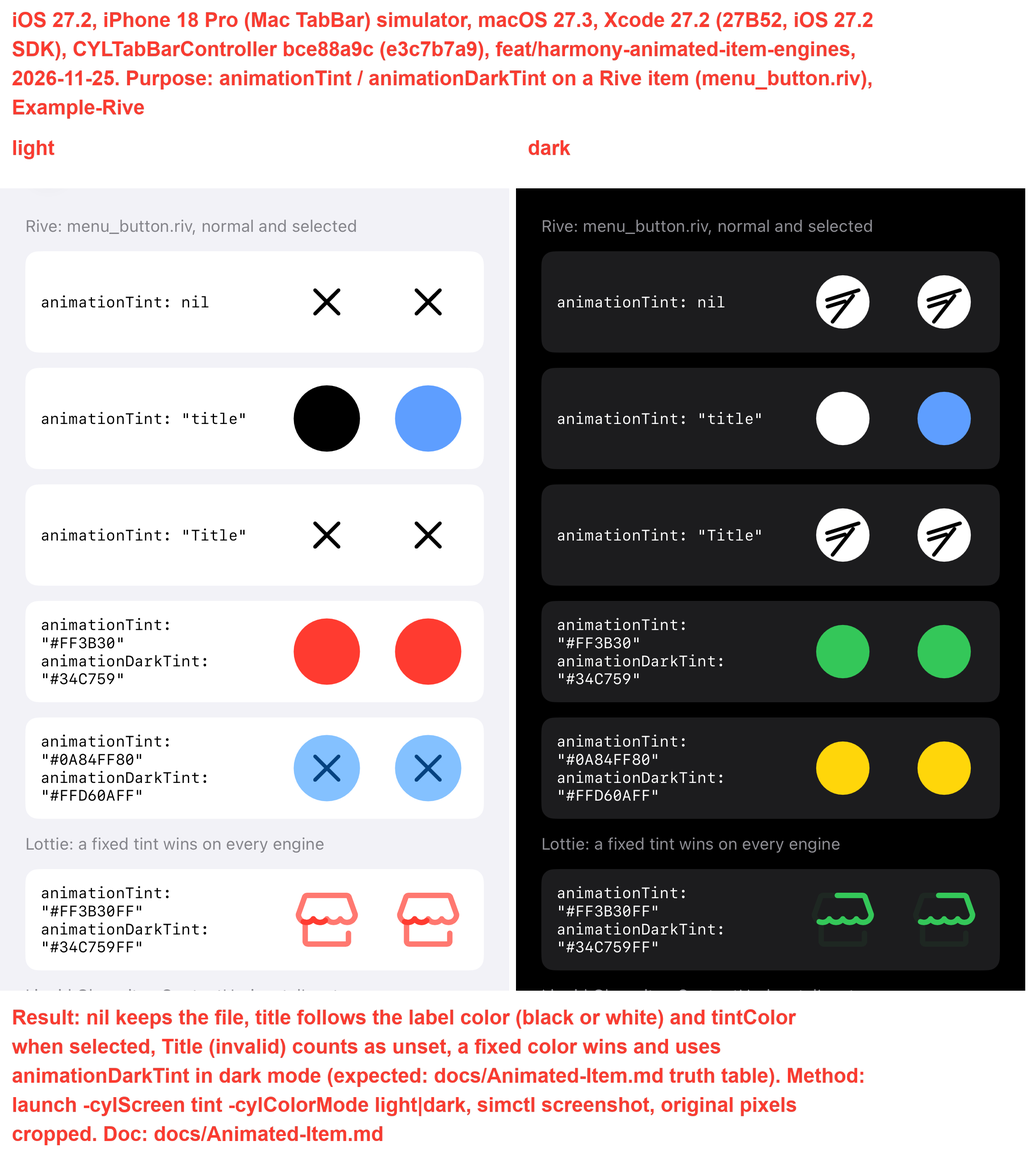
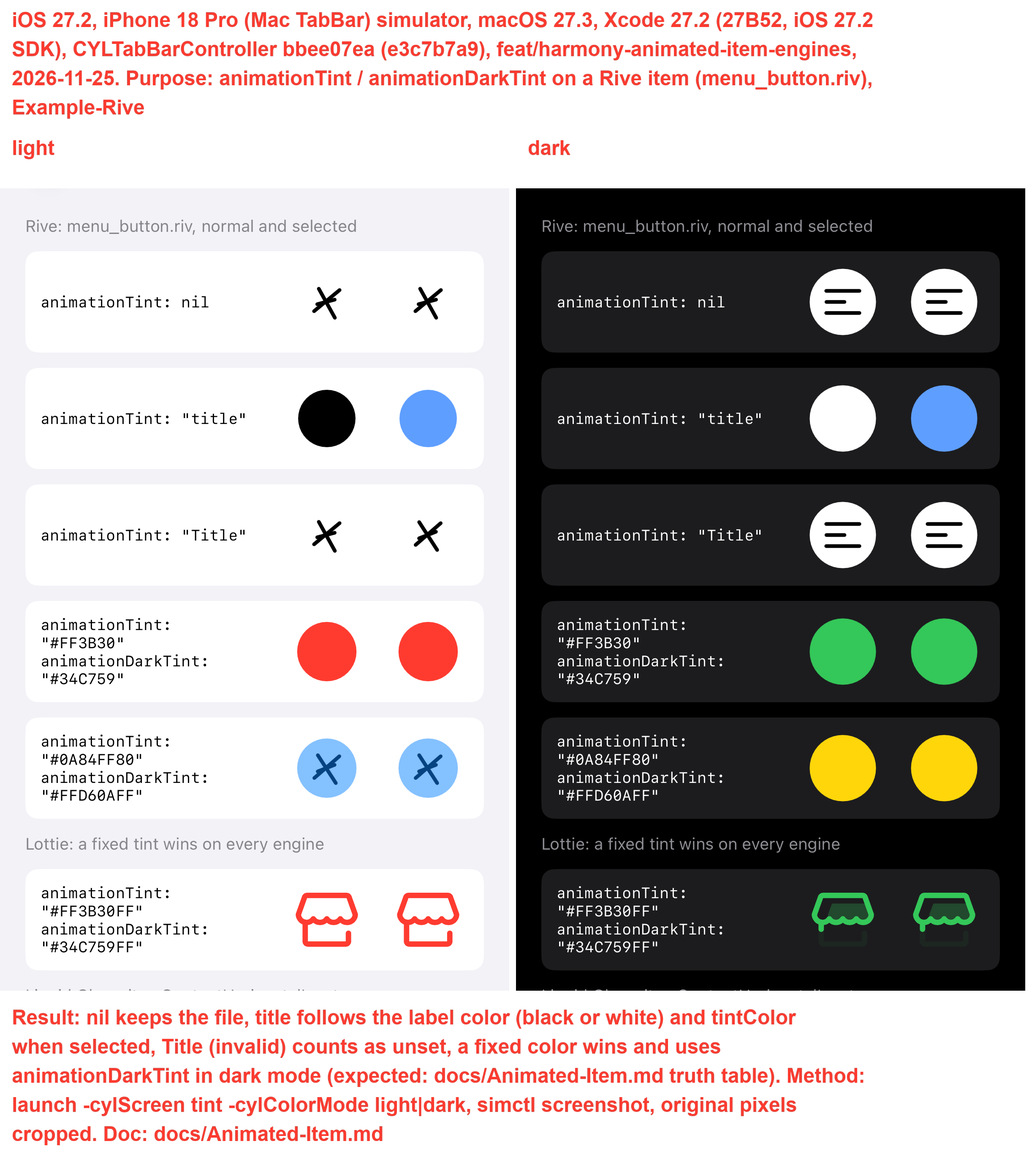
docs: 📝 iOS examples: screenshots and tests repeated on the merged head
Builds (Example, Example-Swift, Example-Rive) 0 errors, 326 framework tests
with 0 failures, labeled screenshots retaken on bbee07ea after merging origin.

By  @ChenYilong <luohanchenyilong@163.com>

diff --git a/docs/Animated-Item.md b/docs/Animated-Item.md
@@ -54,7 +54,7 @@
 |:---|:---|
 | 用户原话：“静态编写代码，代码编写完成统一测试”。本条按用户要求使用英文（见右列）。 | IN PROGRESS, 0 / 100 so far (2026-11-25, branch `feat/harmony-animated-item-engines`, PR #824, Mac session, worktree `/tmp/xpr/harmony-eng/repo`): **tab bar resource-missing on iOS, Rive off-window bound, plus-button title in dark mode, iOS halves of three older rows.** Owner directive, verbatim (Chinese, translated here): "write the code statically; when all code is written, test it in one batch" (`静态编写代码，代码编写完成统一测试`): all code is written first, then ONE combined test batch, no per-step test cycles, one push after the batch. Task from the coordinator, no user prompt of its own. Tasks: (A) iOS tab bar buttons (UIKit, notification based) report `onResourceMissing` like Android `CYLTabBar.kt` (`cyl_animationViewDidFail` -> `CYLTabBarItemAnimationFailure.missingResource`): `CYLAnimationEngines.resourceMissingListener` once per resource per tab button, main thread, reasons "not found" / "unreadable" / "decode failed" / "engine library missing", for a late failure and for a synchronous nil from the factory; XCTest. (B) Rive timed input: `CYLRiveInputPass.offWindowEnds` waits the full 1.5 s cap for an input with `activeDuration` > 0; a pure-function test proves it, then the off-window is bounded by `activeDuration` (min 0.05 s, never above 1.5 s) on iOS, mirrored statically in Android `CYLRiveInputPass.kt` and HarmonyOS `CYLAnimatedItemRiveOptions.ts` with their unit tests updated (Windows runs them). (C) the plus button title shows a fixed gray instead of following the tab titles in dark mode (CYLSearch example, 'Search bar' plus title rgb(146,146,146) vs white): reproduce in Example-Swift on Liquid Glass, fix `cylAlignTitleWithTabBarItemTitlesIfNeeded` / the configuration update handler if it does not follow; the `.gray` default stays (owner decision, listed under TODO). (D) the iOS halves of the task log rows `itemContentHorizontalInset`, `showsImageWhenAnimationEnds` parity and the iOS engine contract: check what is missing, implement if small, else list. Advisor plan (checked before writing code): the engine looks `CYLAnimatedItemView` up at run time so the Foundation-only `Tests/CYLTabBarItemAnimation` target stays free of the view module, so the engine reaches the reporter the same way (an `@objc` entry point on `CYLAnimationEngines`, reached by runtime lookup if a direct reference breaks that target or SwiftPM); two failure points (the late failure, and the synchronous nil of the factory: missing or empty local file, no animator for the URL, else decode failed); dedupe per tab button plus resource, not per animation view, because trait and style refreshes make a new view for the same file; no new public per-tab callback (owner question below); B bound = `activeDuration > 0 ? min(1.5, max(0.05, activeDuration)) : 1.5` with one case table on every platform; C checks in order: does alignment run for a titled plus button, the `cylShowsTitleInTabBarItem()` early return, the `configurationUpdateHandler` that rebuilds the title transformer from `titleColor(for: .normal)` and overrides the aligned color; log the real color source (146 is not `.gray`, which is about 128); D is expected to need little or no code. Rubric: **100** = A, B, C implemented, tests written and run in one batch (Framework scheme on `iPhone 18 Pro (Mac TabBar)` 5084F21B by UDID, Example and Example-Swift built from empty derived data), D checked, rows and TODO table returned. **60** = A and B with tests passing. Owner question: should an iOS tab have a per-tab `onResourceMissing` callback (Android's tab is a `CYLAnimatedItemView`, an iOS UIKit tab button is not one)? Until answered only the global listener fires on the tab bar path. **Result (2026-11-25, same session, macOS 27.3, Xcode 27.2, simulator `iPhone 18 Pro (Mac TabBar)` 5084F21B by UDID, derived data emptied):** 90 / 100. (A) DONE: the tab engine reports a tab's missing file through `CYLAnimationEngines` (internal `@objc` entry points found at run time, so `Tests/CYLTabBarItemAnimation` stays Foundation-only), once per resource per tab button; `CYLTabBarResourceMissingTests` 5 tests. (B) DONE: the bug is proven by `testAMachineThatNeverSettlesDoesNotWaitTheFullCapForAShortInput` (without the duration a 0.3 s input waits 1.5 s); `CYLRiveInputPass.offWindowCap(activeDuration:)` = `activeDuration > 0 ? min(1.5, max(0.05, activeDuration)) : 1.5`; iOS 6 new tests passed; Android `offWindowCapMilliseconds` and HarmonyOS `cylRiveOffWindowCapMs` written with the same case table, NOT run (Windows); Android has no settle wait, so only the rule is mirrored. (C) DONE: root cause = the `configurationUpdateHandler` of a plus button made from a configuration rebuilt the title transformer from `titleColor(for:)` (the default gray) after every configuration change, undoing the colors `cylApplyTitleFont` took from the tab titles; the handler now prefers the stored `titleStyle`. `CYLPlusButtonTitleColorTests` 2 tests (fail without the change: 2 failures, pass with it); Example-Swift in dark mode with Liquid Glass shows the plus title `Post` white like the other titles. The `.gray` default stays (owner decision). Full Framework scheme, first run: 326 tests, 3 skipped, 2 failures, both in the C test as first written (it called `updateConfiguration()`, which does not run the handler); the corrected C class was then run alone: 2 tests, 0 failures (the full scheme was not run again). Example (ObjC) and Example-Swift build from empty derived data. TODO (-10): Example-Rive not built here (the changed `CYLRiveLegacyTabBarItemAnimationView.swift` call site is compiled only with RiveRuntime); Android and HarmonyOS B halves not run; no committed labeled screenshot of the dark plus title; `Tests/CYLTabBarItemAnimation/run.sh` already failed to link before this change (missing `CYLTabBarItemAnimationPrepareTint` and more), so the new checks in its `main.m` are compiled but not run; no per-tab `onResourceMissing` on iOS (owner question above). |
 | 本条按用户要求使用英文（见右列）。 | IN PROGRESS, 70 / 100 (2026-11-25, branch `feat/harmony-animated-item-engines`, PR #824, Windows session winsCYLTabBarController): **Windows batch after the advisor's score review (about 82-85 overall: the mini program row 71 and the red Android tests were the biggest drags) and the Mac session's batch.** User prompt, verbatim: "continue TODO (missing points): opus ... 将得分优化到100转发合适任务给其他session 直接使用本机环境进行测试，iOS在macos机器，其余在windows机器。转发任务给相应session无需等待ci结果。" **Done and verified here:** (1) Android: `CYLAnimatedItemStackTintTest` hiddenOwnerOrNextItemLeavesNoDividerOrSpacing and goneItemLeavesNoSpacing were red at HEAD: `CYLAnimatedItemStackView.onMeasure` applied the spacing with `marginStart` only (relayout false), which reaches `leftMargin` only when the layout direction is resolved, so a hidden or gone first item left its space in the width; fixed by resolving the margin in place; clean run of `:cylanimateditem` and `:cyltabbar` unit tests 345 tests, 1 skipped, 0 failed, `:app:assembleDebug` builds (JDK 17); also `CYLAnimatedItemTintV2Test` did not compile (the `night` helper took a CYLAnimatedItemView, the test passes a stack): widened to View, 19 tests pass; (2) HarmonyOS did not build at 3c6a4d2b (`CYLAnimatedItemColorCount.ts`, 15 ArkTS errors, `object` vs `Object`): fixed, 140 node tests pass; (3) the `#tint=` tab URL options on HarmonyOS: Gallery scene `lottie-tint` (`Lottie tint URLs`), tabs `#tint=title`, `#tint=#FF3B3080&darkTint=#34C75980`, none, `#tint=#007AFFFF`: on the emulator the `title` tab takes the selected title color, the fixed tab is pale red in light mode and pale green in dark mode, the fixed blue is visible, so the tab path reads 8 digits as #RRGGBBAA (as #AARRGGBB the colors would be dark purple and transparent); `cylTintColorFilter` (`cyltabbar/.../CYLTabBarController.ets:2147`) still reads 8-digit strings as #AARRGGBB, `cylTintForPath` no longer exists, and the owner decision is still open ([screenshot](assets/harmonyos-gallery-lottie-tint-urls-a93de1d8.png)); (4) the built-in default tint in dark mode on HarmonyOS (page `Default tint`, launch parameter `cylColorMode`): a one-color Lottie is black / near white when normal and blue when selected, a multi-color one keeps its colors ([screenshot](assets/examples-dark-mode-default-tint-09bb7bec.png)); (5) the mini program example controls in WeChat DevTools (the part row 72 lists as not verified): on the Me page speed 2 and loop on reach all four tab icon players through `cyl_player()` (`speed` 2, `loops` true, `supportsSpeed` / `supportsLoops` true), Play all makes all four report playing, loop off plus Restart plays the selected icon; `npm test` 220 / 220 and the DevTools UI suite 15 passed, 3 skipped, 0 failed. **Not done / not verified:** a single pass with loop off never reports its end in the DevTools simulator (the selected Me icon still reports playing after 10 s; simulator limit or a missing `complete`, needs a real device); the GIF-as-image end event in DevTools (the example is built for `lottie`; the `gif` variant was not run); Rive Loop OFF with menu_button.riv and the SRC_IN tint layer over Rive and PAG on the x86_64 emulator (the HAP installs with the Rive debug engine, but the HarmonyOS entry has neither menu_button.riv nor a PAG file nor a page for them); `ohosTest`; the inset screenshots (itemContentHorizontalInset, glass, normal and selected) on Android, HarmonyOS and the mini program; the Rive timed-input mirror (waiting for the Mac core push); Android and the mini program default tint on a device (the examples have no page with a one-color animated item). Forwarded: the iOS halves and the iOS example conversions to the Mac session, the library dark-mode bugs (fixed white list background, dark fold chevron) to the ClassifyMenu session. |
-| 用户原话：“静态编写代码，代码编写完成统一测试”。本条按用户要求使用英文（见右列）。 | DONE, 85 / 100 (2026-11-25, branch `feat/harmony-animated-item-engines`, PR #824, Mac session, local branch `ios-examples-824`, worktree `/tmp/xpr/cyl-ios-ex`): **iOS examples: tint page, Default tint row, tag-list rule.** Owner directive, verbatim (Chinese, translated here): "write the code statically; when all code is written, test it in one batch" (`静态编写代码，代码编写完成统一测试`): all code first, then ONE combined test batch, no per-step test cycles, one push after the batch. Task from the coordinator, no user prompt of its own. Tasks (examples have the lowest weight: fix examples, never bend the core): (A) an iOS example page that sets `CYLAnimatedItemView.animationTint` / `animationDarkTint` (`#RRGGBBAA`, `title` case-sensitive), with a Rive item (`menu_button.riv`), normal and selected, Dark and Light. (B) the HarmonyOS `pages/DefaultTint.ets` row "Default tint" (one-color and multi-color Lottie, normal and selected, launch parameter `cylColorMode`) on iOS in the Objective-C example `Example/`, one to one. (C) the rule "Demo lists that need sections use a ClassifyMenu tag list" (`docs/instructions/examples.md`) on iOS `Example/` and `Example-Swift/`: convert what the repository's own tag list component allows, list the exact blocker otherwise. (D) ONE test batch after the code (own DerivedData, simulator `iPhone 18 Pro (Mac TabBar)` 5084F21B by UDID): build Example, Example-Swift, Example-Rive; Framework tests; labeled original-pixel screenshots in `docs/assets/`; `pod lib lint CYLTabBarController` with its own DerivedData. Rubric: **100** = A, B, C done (or C's blocker listed with evidence), all builds green, tests green, screenshots committed and label-checked, lint result reported; **60** = A and B written, builds green. Missing points are printed as TODO at the end. **Result (one test batch, 2026-11-25, own derived data, simulator `iPhone 18 Pro (Mac TabBar)` 5084F21B, iOS 27.2, Xcode 27.2, commit bce88a9c):** (A) DONE: Example-Rive `AnimatedItemTintViewController` (the User tab's next tab in turn, the second tab, "Tint" button; launch `-cylScreen tint`, `-cylColorMode dark|light`, `-cylScroll bottom`): `animationTint` nil / `title` / `Title` (invalid) / `#RRGGBB` + dark / `#RRGGBBAA` + dark on a Rive item (menu_button.riv) normal and selected, a Lottie item, and the Liquid Glass `itemContentHorizontalInset` (unset 14 pt and 0), normal and selected. **Bug found and fixed in the core**: the legacy Rive view (a .riv without a view model, such as menu_button.riv) did not implement `cyl_applyAnimationViewResolvedTintColor:`, so the properties had no effect on it (first screenshot: all rows white circles); `CYLRiveLegacyTabBarItemAnimationView` now takes the final color. Observation: a tint flattens this two-tone icon to a silhouette (the template rule: the whole icon takes the color). (B) DONE: `Example/` second tab (Nearby), section "Default tint" -> `CYLDefaultTintViewController` one to one with `pages/DefaultTint.ets` (same files, referenced from the HarmonyOS example's `rawfile/lottie`, not copied; launch `-CYLDemoSelectedTab city -cylScreen default-tint -cylColorMode dark|light`); camera black / white normal, tintColor blue selected, multi-color file keeps its colors. No Example-Swift twin: the row is not on the first tab. (C) TODO, blocker below. (D) builds: Example, Example-Swift, Example-Rive 0 errors; `scripts/unit-tests.sh`: 314 tests, 3 skipped, 0 failures (run twice, before and after the core fix); screenshots below; `pod lib lint` result in the TODO table. |
+| 用户原话：“静态编写代码，代码编写完成统一测试”。本条按用户要求使用英文（见右列）。 | DONE, 85 / 100 (2026-11-25, branch `feat/harmony-animated-item-engines`, PR #824, Mac session, local branch `ios-examples-824`, worktree `/tmp/xpr/cyl-ios-ex`): **iOS examples: tint page, Default tint row, tag-list rule.** Owner directive, verbatim (Chinese, translated here): "write the code statically; when all code is written, test it in one batch" (`静态编写代码，代码编写完成统一测试`): all code first, then ONE combined test batch, no per-step test cycles, one push after the batch. Task from the coordinator, no user prompt of its own. Tasks (examples have the lowest weight: fix examples, never bend the core): (A) an iOS example page that sets `CYLAnimatedItemView.animationTint` / `animationDarkTint` (`#RRGGBBAA`, `title` case-sensitive), with a Rive item (`menu_button.riv`), normal and selected, Dark and Light. (B) the HarmonyOS `pages/DefaultTint.ets` row "Default tint" (one-color and multi-color Lottie, normal and selected, launch parameter `cylColorMode`) on iOS in the Objective-C example `Example/`, one to one. (C) the rule "Demo lists that need sections use a ClassifyMenu tag list" (`docs/instructions/examples.md`) on iOS `Example/` and `Example-Swift/`: convert what the repository's own tag list component allows, list the exact blocker otherwise. (D) ONE test batch after the code (own DerivedData, simulator `iPhone 18 Pro (Mac TabBar)` 5084F21B by UDID): build Example, Example-Swift, Example-Rive; Framework tests; labeled original-pixel screenshots in `docs/assets/`; `pod lib lint CYLTabBarController` with its own DerivedData. Rubric: **100** = A, B, C done (or C's blocker listed with evidence), all builds green, tests green, screenshots committed and label-checked, lint result reported; **60** = A and B written, builds green. Missing points are printed as TODO at the end. **Result (one test batch, 2026-11-25, own derived data, simulator `iPhone 18 Pro (Mac TabBar)` 5084F21B, iOS 27.2, Xcode 27.2, commit bbee07ea):** (A) DONE: Example-Rive `AnimatedItemTintViewController` (the User tab's next tab in turn, the second tab, "Tint" button; launch `-cylScreen tint`, `-cylColorMode dark|light`, `-cylScroll bottom`): `animationTint` nil / `title` / `Title` (invalid) / `#RRGGBB` + dark / `#RRGGBBAA` + dark on a Rive item (menu_button.riv) normal and selected, a Lottie item, and the Liquid Glass `itemContentHorizontalInset` (unset 14 pt and 0), normal and selected. **Bug found and fixed in the core**: the legacy Rive view (a .riv without a view model, such as menu_button.riv) did not implement `cyl_applyAnimationViewResolvedTintColor:`, so the properties had no effect on it (first screenshot: all rows white circles); `CYLRiveLegacyTabBarItemAnimationView` now takes the final color. Observation: a tint flattens this two-tone icon to a silhouette (the template rule: the whole icon takes the color). (B) DONE: `Example/` second tab (Nearby), section "Default tint" -> `CYLDefaultTintViewController` one to one with `pages/DefaultTint.ets` (same files, referenced from the HarmonyOS example's `rawfile/lottie`, not copied; launch `-CYLDemoSelectedTab city -cylScreen default-tint -cylColorMode dark|light`); camera black / white normal, tintColor blue selected, multi-color file keeps its colors. No Example-Swift twin: the row is not on the first tab. (C) TODO, blocker below. (D) builds: Example, Example-Swift, Example-Rive 0 errors; `scripts/unit-tests.sh`: 326 tests, 3 skipped, 0 failures on the merged head bbee07ea (314 before merging origin; run again after the core fix); the builds and screenshots were repeated on the merged head; screenshots below; `pod lib lint` result in the TODO table. |
 | 用户原话：“静态编写代码，代码编写完成统一测试”。本条按用户要求使用英文（见右列）。 | IN PROGRESS, 0 / 100 so far (2026-11-25, branch `feat/harmony-animated-item-engines`, PR #824, Mac session, worktree `/tmp/xpr/harmony-eng/repo`): **tab bar resource-missing on iOS, Rive off-window bound, plus-button title in dark mode, iOS halves of three older rows.** Owner directive, verbatim (Chinese, translated here): "write the code statically; when all code is written, test it in one batch" (`静态编写代码，代码编写完成统一测试`): all code is written first, then ONE combined test batch, no per-step test cycles, one push after the batch. Task from the coordinator, no user prompt of its own. Tasks: (A) iOS tab bar buttons (UIKit, notification based) report `onResourceMissing` like Android `CYLTabBar.kt` (`cyl_animationViewDidFail` -> `CYLTabBarItemAnimationFailure.missingResource`): `CYLAnimationEngines.resourceMissingListener` once per resource per tab button, main thread, reasons "not found" / "unreadable" / "decode failed" / "engine library missing", for a late failure and for a synchronous nil from the factory; XCTest. (B) Rive timed input: `CYLRiveInputPass.offWindowEnds` waits the full 1.5 s cap for an input with `activeDuration` > 0; a pure-function test proves it, then the off-window is bounded by `activeDuration` (min 0.05 s, never above 1.5 s) on iOS, mirrored statically in Android `CYLRiveInputPass.kt` and HarmonyOS `CYLAnimatedItemRiveOptions.ts` with their unit tests updated (Windows runs them). (C) the plus button title shows a fixed gray instead of following the tab titles in dark mode (CYLSearch example, 'Search bar' plus title rgb(146,146,146) vs white): reproduce in Example-Swift on Liquid Glass, fix `cylAlignTitleWithTabBarItemTitlesIfNeeded` / the configuration update handler if it does not follow; the `.gray` default stays (owner decision, listed under TODO). (D) the iOS halves of the task log rows `itemContentHorizontalInset`, `showsImageWhenAnimationEnds` parity and the iOS engine contract: check what is missing, implement if small, else list. Advisor plan (checked before writing code): the engine looks `CYLAnimatedItemView` up at run time so the Foundation-only `Tests/CYLTabBarItemAnimation` target stays free of the view module, so the engine reaches the reporter the same way (an `@objc` entry point on `CYLAnimationEngines`, reached by runtime lookup if a direct reference breaks that target or SwiftPM); two failure points (the late failure, and the synchronous nil of the factory: missing or empty local file, no animator for the URL, else decode failed); dedupe per tab button plus resource, not per animation view, because trait and style refreshes make a new view for the same file; no new public per-tab callback (owner question below); B bound = `activeDuration > 0 ? min(1.5, max(0.05, activeDuration)) : 1.5` with one case table on every platform; C checks in order: does alignment run for a titled plus button, the `cylShowsTitleInTabBarItem()` early return, the `configurationUpdateHandler` that rebuilds the title transformer from `titleColor(for: .normal)` and overrides the aligned color; log the real color source (146 is not `.gray`, which is about 128); D is expected to need little or no code. Rubric: **100** = A, B, C implemented, tests written and run in one batch (Framework scheme on `iPhone 18 Pro (Mac TabBar)` 5084F21B by UDID, Example and Example-Swift built from empty derived data), D checked, rows and TODO table returned. **60** = A and B with tests passing. Owner question: should an iOS tab have a per-tab `onResourceMissing` callback (Android's tab is a `CYLAnimatedItemView`, an iOS UIKit tab button is not one)? Until answered only the global listener fires on the tab bar path. |
 | 用户原话：“静态编写代码，代码编写完成统一测试”。本条按用户要求使用英文（见右列）。 | IN PROGRESS, 0 / 100 so far (2026-11-25, branch `feat/harmony-animated-item-engines`, PR #824, Mac session, local branch `ios-examples-824`, worktree `/tmp/xpr/cyl-ios-ex`): **iOS examples: tint page, Default tint row, tag-list rule.** Owner directive, verbatim (Chinese, translated here): "write the code statically; when all code is written, test it in one batch" (`静态编写代码，代码编写完成统一测试`): all code first, then ONE combined test batch, no per-step test cycles, one push after the batch. Task from the coordinator, no user prompt of its own. Tasks (examples have the lowest weight: fix examples, never bend the core): (A) an iOS example page that sets `CYLAnimatedItemView.animationTint` / `animationDarkTint` (`#RRGGBBAA`, `title` case-sensitive), with a Rive item (`menu_button.riv`), normal and selected, Dark and Light. (B) the HarmonyOS `pages/DefaultTint.ets` row "Default tint" (one-color and multi-color Lottie, normal and selected, launch parameter `cylColorMode`) on iOS in the Objective-C example `Example/`, one to one. (C) the rule "Demo lists that need sections use a ClassifyMenu tag list" (`docs/instructions/examples.md`) on iOS `Example/` and `Example-Swift/`: convert what the repository's own tag list component allows, list the exact blocker otherwise. (D) ONE test batch after the code (own DerivedData, simulator `iPhone 18 Pro (Mac TabBar)` 5084F21B by UDID): build Example, Example-Swift, Example-Rive; Framework tests; labeled original-pixel screenshots in `docs/assets/`; `pod lib lint CYLTabBarController` with its own DerivedData. Rubric: **100** = A, B, C done (or C's blocker listed with evidence), all builds green, tests green, screenshots committed and label-checked, lint result reported; **60** = A and B written, builds green. Missing points are printed as TODO at the end. |
 | 用户原话："本修改适用于cylanimateditem所有平台 包括但不限于iOS android 鸿蒙 小程序 rn flutter等等"（此前：液态tag title与边框的左右间距太小，圆角unset时为胶囊，间距也应按液态/扁平区分，用宏定义不要14 dp魔法数字，example不设置、用默认unset）。本条按英文记录（见右列）。 | DONE static, 80 / 100 (2026-11-25, branch `feat/harmony-animated-item-engines`, PR #824, Windows session): **unset horizontal content inset, the partner of `itemCornerRadius`.** Cause: a capsule (the unset radius of Liquid Glass) takes room from the content, but the title-to-border space was a fixed appearance margin (0 in a grid style), so glass titles touched the round ends. Design (advisor-reviewed): constant `CYLAnimatedItemLiquidGlassContentInset` = 14 (Android `const val`, HarmonyOS `export const`, mini program `cylAnimatedItemLiquidGlassContentInset`, Dart / TypeScript the same name; never the literal at a call site) and the property `itemContentHorizontalInset` on `CYLAnimatedItemView` and `CYLAnimatedItemStackView` (null / -1 = unset): unset = the constant on glass that is really drawn (the unset radius's condition), 0 on flat (flat views look as before); an explicit number wins, also 0 on glass; `resolvedItemContentHorizontalInset` is the value in use. Left and right only, on top of the padding (the stack: on top of `contentMargin`, top and bottom unchanged). Android: `CYLAnimatedItemView` / `CYLAnimatedItemStackView` / `CYLAnimatedItemBackgroundRenderer.resolvedContentInset`, `CYLAnimatedItemContentInsetTest` (5 cases); ClassifyMenu `CYLTagButton` uses `max(appearance inset, resolved inset)` in layout and in the static width measuring (same rule), so a measured tag fits its title. HarmonyOS: `CYLAnimatedItemBackgroundModifier.resolvedContentInset`, view and stack `@Prop itemContentHorizontalInset`. Mini program: `--cyl-item-inset` in the item style, added to every layout's padding in `index.wxss` (node test, 177 / 177); the stack takes an explicit value only (it has no glass background there). Flutter (Dart + Android bridge) and React Native (TypeScript spec + Android view and manager) pass it through; the Flutter test passes (8 / 8). iOS, RN iOS and Flutter iOS: the Mac session (spec sent). Examples leave radius and inset unset. **Not run yet:** the Android unit tests, the ClassifyMenu library tests, the HarmonyOS hvigor build and an emulator screenshot (one batch is queued behind the heavy lock); the RN jest suite (no node_modules in the library). TODO: those runs, HarmonyOS `CYLTagButton` in CollectionViewClassifyMenu, docs of the property in the parity tables. |
@@ -549,9 +549,9 @@ tag.restartAnimation()
 |:---|:---|
 | ![FlatDesign 标签栏，每个按钮为 CYLAnimatedItemView](assets/animated-item-flatdesign-tabbar-ios27.png) | iOS, iPhone 17 Pro simulator, iOS 27.0, Xcode 27.2 (27B52, iOS 27.2 SDK), macOS 27.3, Example-GIF (FlatDesign, GIF tab icons), commit [c8132d26](https://github.com/ChenYilong/CYLTabBarController/commit/c8132d26) plus the macro fix of this change, 2026-11-17 22:00 NZDT; top: Home selected, bottom: Messages selected. |
 | ![CYLAnimatedItemView 演示页](assets/animated-item-demo-ios27-en.png) | iOS, iPhone 17 Pro simulator, iOS 27.0, Xcode 27.2 (27B52, iOS 27.2 SDK), macOS 27.3, Example-GIF (FlatDesign, GIF tab icons), commit [c8132d26](https://github.com/ChenYilong/CYLTabBarController/commit/c8132d26) plus the macro fix of this change, 2026-11-17 22:00 NZDT; the demo page on the Messages tab. |
-| ![iOS 默认着色页](assets/ios-example-default-tint-light-dark.png) | iOS 27.2, iPhone 18 Pro (Mac TabBar) simulator, Xcode 27.2, Example (second tab, Default tint), commit [bce88a9c](https://github.com/ChenYilong/CYLTabBarController/commit/bce88a9c) (change [e3c7b7a9](https://github.com/ChenYilong/CYLTabBarController/commit/e3c7b7a9)), 2026-11-25: the Default tint page, light and dark. |
-| ![Rive 条目的 animationTint](assets/ios-example-rive-animation-tint-light-dark.png) | iOS 27.2, iPhone 18 Pro (Mac TabBar) simulator, Xcode 27.2, Example-Rive tint page, commit bce88a9c, 2026-11-25: `animationTint` / `animationDarkTint` on menu_button.riv and a Lottie file, normal and selected, light and dark. |
-| ![玻璃内缩](assets/ios-example-glass-inset-normal-selected.png) | iOS 27.2, iPhone 18 Pro (Mac TabBar) simulator, Xcode 27.2, Example-Rive tint page, commit bce88a9c, 2026-11-25: `itemContentHorizontalInset` unset (14 pt) and 0 on Liquid Glass items, normal and selected, light and dark. |
+| ![iOS 默认着色页](assets/ios-example-default-tint-light-dark.png) | iOS 27.2, iPhone 18 Pro (Mac TabBar) simulator, Xcode 27.2, Example (second tab, Default tint), commit [bbee07ea](https://github.com/ChenYilong/CYLTabBarController/commit/bbee07ea) (change [e3c7b7a9](https://github.com/ChenYilong/CYLTabBarController/commit/e3c7b7a9)), 2026-11-25: the Default tint page, light and dark. |
+| ![Rive 条目的 animationTint](assets/ios-example-rive-animation-tint-light-dark.png) | iOS 27.2, iPhone 18 Pro (Mac TabBar) simulator, Xcode 27.2, Example-Rive tint page, commit bbee07ea, 2026-11-25: `animationTint` / `animationDarkTint` on menu_button.riv and a Lottie file, normal and selected, light and dark. |
+| ![玻璃内缩](assets/ios-example-glass-inset-normal-selected.png) | iOS 27.2, iPhone 18 Pro (Mac TabBar) simulator, Xcode 27.2, Example-Rive tint page, commit bbee07ea, 2026-11-25: `itemContentHorizontalInset` unset (14 pt) and 0 on Liquid Glass items, normal and selected, light and dark. |
 
 ## [CN]TODO
 ## [EN]TODO
